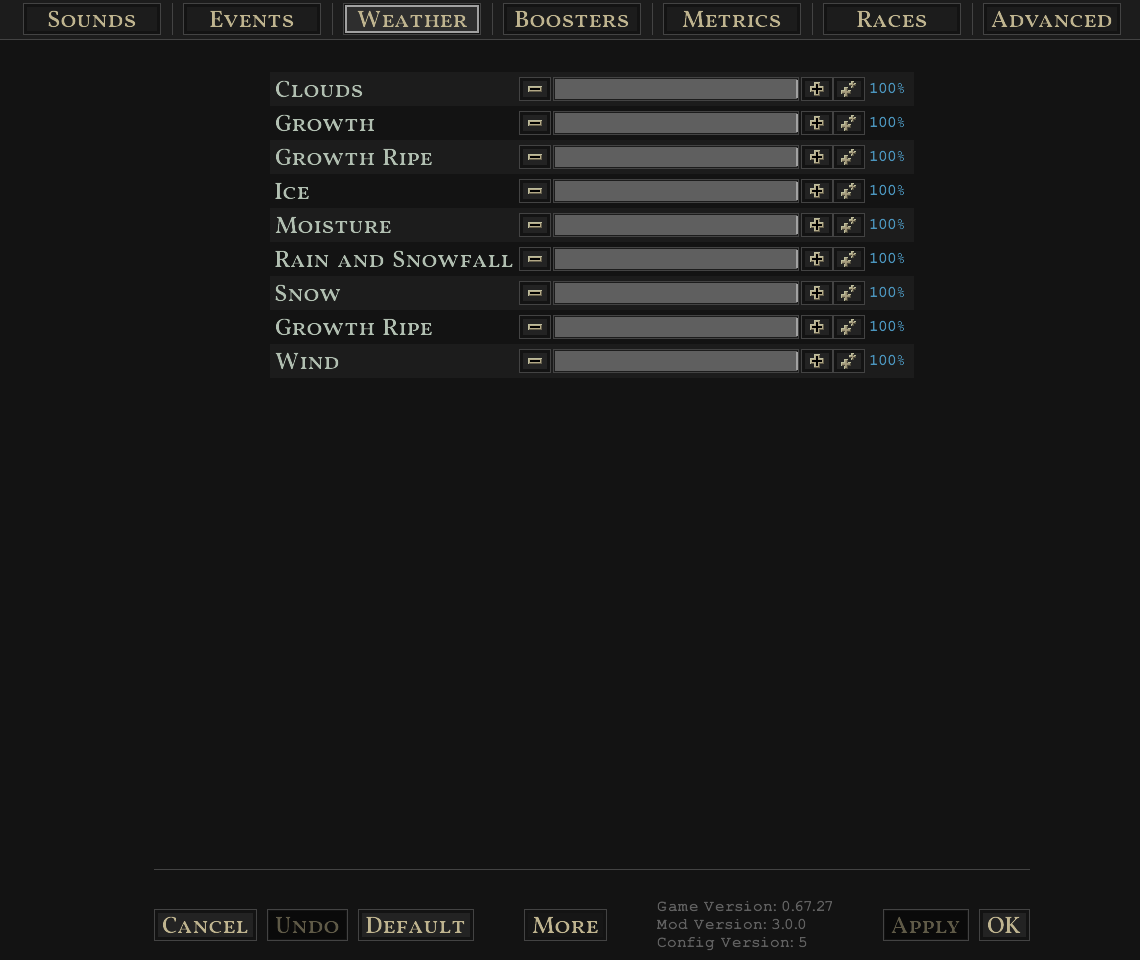
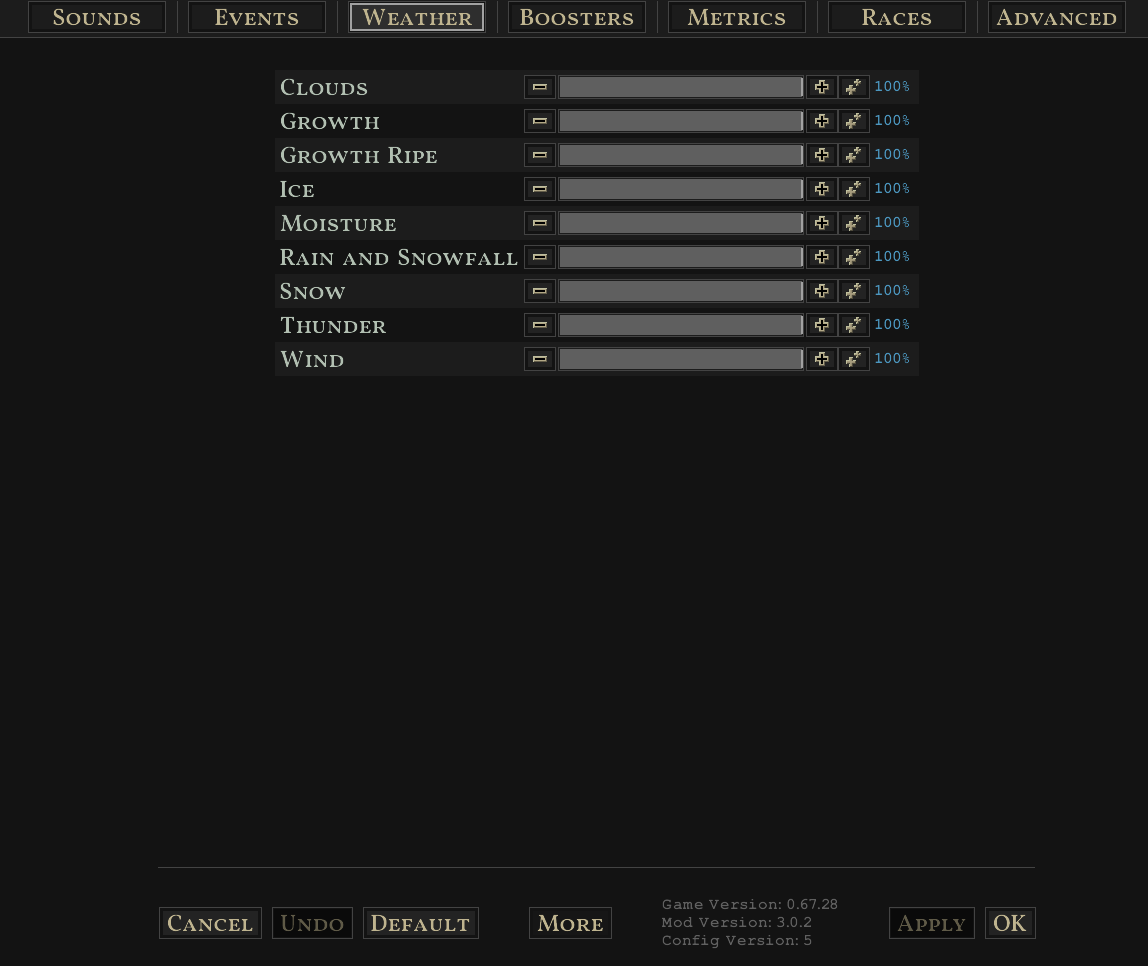
fix error in naming of Thunder weather; update weather.png; add custom events to GameEventsApi;

diff --git a/mod-sdk/src/main/java/com/github/argon/sos/mod/sdk/game/api/GameEventsApi.java b/mod-sdk/src/main/java/com/github/argon/sos/mod/sdk/game/api/GameEventsApi.java
@@ -6,6 +6,7 @@ import com.github.argon.sos.mod.sdk.log.Loggers;
 import com.github.argon.sos.mod.sdk.util.ReflectionUtil;
 import game.GAME;
 import game.events.EVENTS;
+import game.events.general.EventAbs;
 
 import java.util.HashMap;
 import java.util.Map;
@@ -19,19 +20,44 @@ public class GameEventsApi implements Resettable {
 
     private final static Logger log = Loggers.getLogger(GameEventsApi.class);
 
-    private Map<String, EVENTS.EventResource> events;
+    private Map<String, EVENTS.EventResource> eventResources;
+    private Map<String, EventAbs> events;
 
     public final static String KEY_PREFIX = "event";
 
     @Override
     public void reset() {
-        events = null;
+        eventResources = null;
     }
 
     /**
      * @return a map with all game events
      */
-    public Map<String, EVENTS.EventResource> getEvents() {
+    public Map<String, EVENTS.EventResource> getEventResources() {
+        if (eventResources == null) {
+            eventResources = readEventResources();
+        }
+
+        return eventResources;
+    }
+
+    public Optional<EVENTS.EventResource> getEventResource(String key) {
+        return Optional.ofNullable(getEventResources().get(KEY_PREFIX + "." + key));
+    }
+
+    public Map<String, EVENTS.EventResource> readEventResources() {
+        Map<String, EVENTS.EventResource> eventResources = new HashMap<>();
+        for (EVENTS.EventResource eventResource : GAME.events().all()) {
+            eventResources.put(KEY_PREFIX + "." + eventResource.key, eventResource);
+        }
+
+        return eventResources;
+    }
+
+    /**
+     * @return a map with all game events
+     */
+    public Map<String, EventAbs> getEvents() {
         if (events == null) {
             events = readEvents();
         }
@@ -39,25 +65,21 @@ public class GameEventsApi implements Resettable {
         return events;
     }
 
-    public Optional<EVENTS.EventResource> getEvent(String key) {
-        return Optional.ofNullable(getEvents().get(key));
-    }
-
-    public Map<String, EVENTS.EventResource> readEvents() {
-        Map<String, EVENTS.EventResource> events = new HashMap<>();
-        for (EVENTS.EventResource eventResource : GAME.events().all()) {
-            events.put(KEY_PREFIX + "." + eventResource.key, eventResource);
+    public Map<String, EventAbs> readEvents() {
+        Map<String, EventAbs> events = new HashMap<>();
+        for (EventAbs event : EventAbs.ALL()) {
+            events.put(KEY_PREFIX + "." + event.key, event);
         }
 
         return events;
     }
 
-    public Map<String, Boolean> readEventsEnabledStatus() {
-        return getEvents().entrySet().stream()
+    public Map<String, Boolean> readEventResourcesEnabledStatus() {
+        return getEventResources().entrySet().stream()
                 .collect(Collectors.toMap(Map.Entry::getKey, entry -> isEnabled(entry.getValue())));
     }
 
-    public void enableEvent(EVENTS.EventResource event, Boolean enabled) {
+    public void enableEventResource(EVENTS.EventResource event, Boolean enabled) {
         event.supress(!enabled);
     }
 

diff --git a/mod/src/main/java/com/github/argon/sos/moreoptions/config/Configurator.java b/mod/src/main/java/com/github/argon/sos/moreoptions/config/Configurator.java
@@ -187,13 +187,13 @@ public class Configurator implements Phases {
 
     public boolean applyEventsConfig(EventsConfig eventsConfig) {
         try {
-            Map<String, EVENTS.EventResource> gameEvents = gameApis.events().getEvents();
+            Map<String, EVENTS.EventResource> gameEvents = gameApis.events().getEventResources();
 
             eventsConfig.getEvents().forEach((key, enabled) -> {
                 if (gameEvents.containsKey(key)) {
                     EVENTS.EventResource event = gameEvents.get(key);
                     log.trace("Setting event %s enabled = %s", event.getClass().getSimpleName(), enabled);
-                    gameApis.events().enableEvent(event, enabled);
+                    gameApis.events().enableEventResource(event, enabled);
 
                     if (!enabled) {
                         gameApis.events().reset(event);

diff --git a/mod/src/main/java/com/github/argon/sos/moreoptions/ui/UiConfig.java b/mod/src/main/java/com/github/argon/sos/moreoptions/ui/UiConfig.java
@@ -172,7 +172,7 @@ public class UiConfig implements Phases {
         IDebugPanel.add(MOD_INFO.name + ":metrics:stop", () -> ModSdkModule.metricScheduler().stop());
         IDebugPanel.add(MOD_INFO.name + ":metrics:start", () -> ModSdkModule.metricScheduler().start());
         IDebugPanel.add(MOD_INFO.name + ":log:stats", () -> {
-            log.info("Events Status: %s", gameApis.events().readEventsEnabledStatus()
+            log.info("Events Status: %s", gameApis.events().readEventResourcesEnabledStatus()
                 .entrySet().stream().map(entry -> entry.getKey() + " enabled: " + entry.getValue() + "\n")
                 .collect(Collectors.joining()));
         });

diff --git a/mod/src/main/java/com/github/argon/sos/moreoptions/config/ConfigDefaults.java b/mod/src/main/java/com/github/argon/sos/moreoptions/config/ConfigDefaults.java
@@ -140,7 +140,7 @@ public class ConfigDefaults {
 
     public EventsConfig newEvents() {
         // Events
-        Map<String, Boolean> events = gameApis.events().getEvents().keySet().stream()
+        Map<String, Boolean> events = gameApis.events().getEventResources().keySet().stream()
             .collect(Collectors.toMap(key -> key, o -> true));
 
         return EventsConfig.builder()
